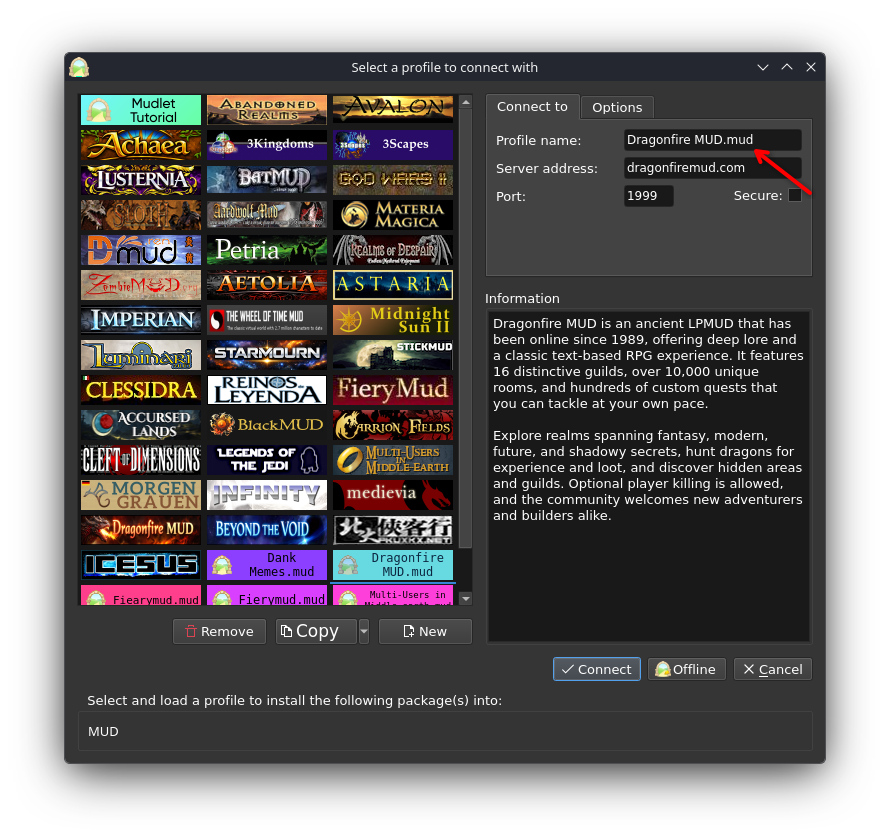
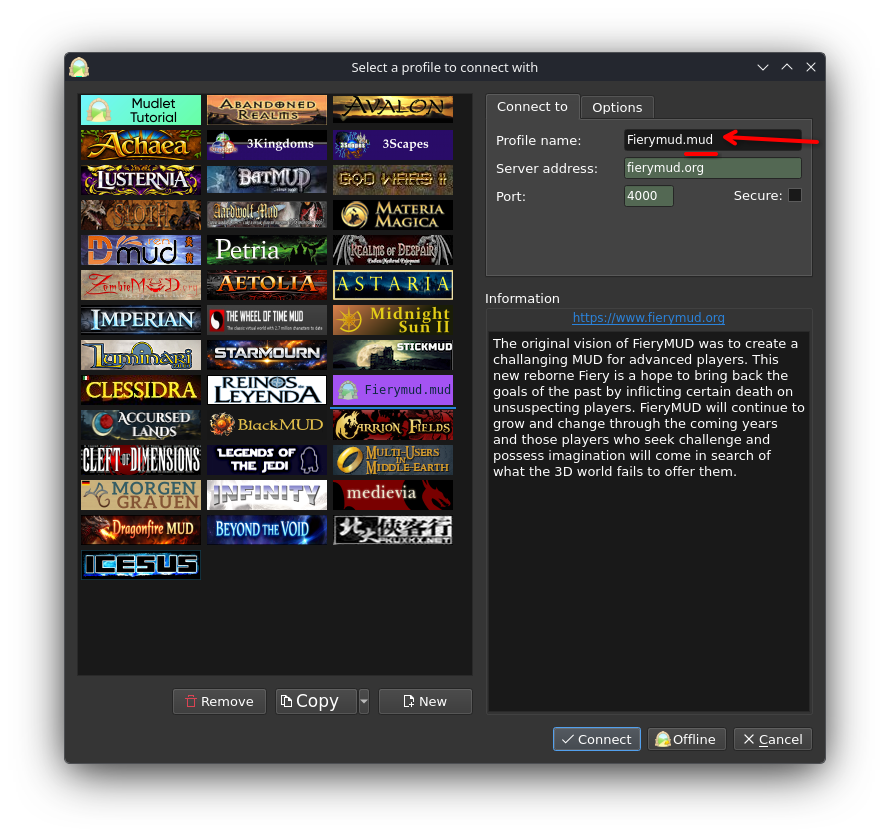
mudlet

diff --git a/wiki-rtd/docs/wiki_client_guides/mudlet/mudlet-guide.md b/wiki-rtd/docs/wiki_client_guides/mudlet/mudlet-guide.md
@@ -28,7 +28,7 @@ Mudlet enables MUD server maintainers to add visual elements and custom features
 
 ## Where to put the games?
 
-You don’t need to add them manually. Mudlet profiles are **automatically** stored in the `retrodeck/roms/muds/` folder.
+You don't need to add them manually. Mudlet profiles are **automatically** stored in the `retrodeck/roms/muds/` folder upon connection.
 
 ---
 
@@ -72,12 +72,30 @@ Each MUD server can have different hotkeys and extra controls.
 
 ## How-to: Display MUD Games in RetroDECK
 
-We will use **Midnight Sun II** as an example.
+<img src="../mudlet-login-screen.png" width="800" alt="">
 
-1. **Launch Mudlet:** Open Mudlet via **RetroDECK Configurator** → **Open Component** → **Mudlet**. 
-2. **Connect to the MUD:** Connect to each MUD server you play on, exit after each login, and quit Mudlet when finished. 
-3. **Restart RetroDECK:** During a restart RetroDECK will automatically populate and convert all your logged in profiles into `.mud` (for example, `Midnight Sun II.mud`) during boot and store them in: `retrodeck/roms/muds/` as seperate game entries.
-4. **Launch the game:** All MUD games will now appear in ES-DE under the **MUDs** system and auto connect to the profile when played.
+This example uses **Fierymud**, but the same process applies to any supported MUD.
+
+1. Launch **Mudlet** from **RetroDECK Configurator** → **Open Component** → **Mudlet**.
+2. At the Mudlet login screen, create or select a profile for the MUD you want to play from the built-in server list or by adding one manually.
+3. Rename the profile so its name ends with the `.mud` extension. For example, rename `Fierymud` to `Fierymud.mud`.
+4. Select **Connect** once to create the profile. You do **not** need to log in to the MUD.
+5. Restart RetroDECK. During startup, RetroDECK automatically detects all `.mud` profiles in `retrodeck/roms/muds/`.
+6. Launch the game from the **Multi-User Dungeon** menu in ES-DE. Mudlet automatically opens and connects using the selected profile.
+
+---
+
+## Troubleshooting
+
+### Mudlet opens to the login screen instead of connecting
+
+Some profile names may contain characters that are not handled correctly by the ES-DE parser.
+
+1. Rename the Mudlet profile using only letters and numbers. For example, rename `Midnight Sun 2.mud` to `MidnightSun2.mud`.
+2. Restart RetroDECK.
+3. In ES-DE, highlight the game under the **Multi-User Dungeon** menu and press **Select** or **F1**.
+4. Select **Edit This Game's Metadata**.
+5. Change the **Name** field to the desired display name, for example `Midnight Sun 2`. This only changes the name shown in ES-DE and does not affect the Mudlet profile.
 
 ---
 
